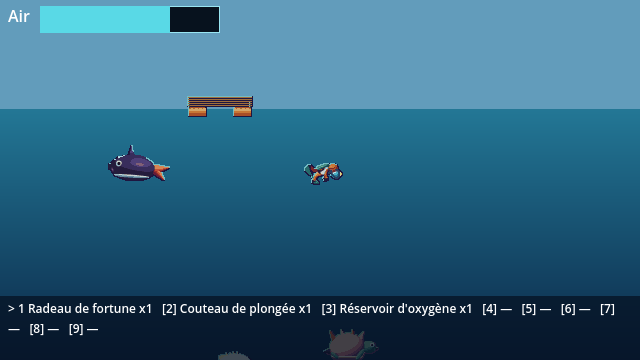
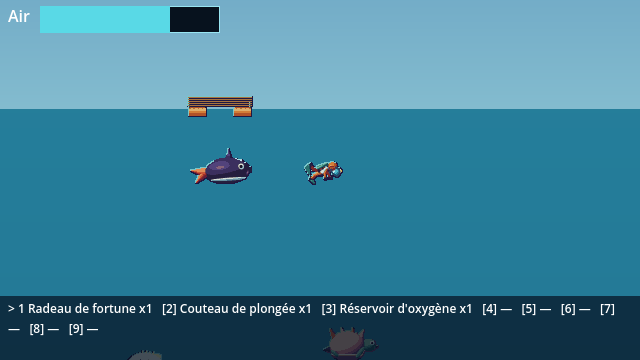
M3 : fond d'eau et ciel en dégradé sur 300 m, teinte sous-marine plus claire ; captures dans les seuils du contrôle (dominante <= 16 %, ombre <= 22 %)

diff --git a/tools/mesure/captures.py b/tools/mesure/captures.py
@@ -1,0 +1,38 @@
+#!/usr/bin/env python3
+"""captures.py - mesure, en lecture seule, les deux critères de capture du contrôle M3 (tools/gate.py).
+
+Pour chaque PNG donné : couleur dominante (une couleur exacte, en % des pixels) et part des pixels sous
+luminance 0,05. Les seuils du contrôle sont 40 % et 35 %. Le contrôle reste la référence ; ce script ne fait
+que montrer les chiffres avant et après un changement visuel.
+Usage : python3 tools/mesure/captures.py <png> [<png> ...]
+"""
+import sys
+from collections import Counter
+
+from PIL import Image
+
+
+def lin(c):
+    c /= 255.0
+    return c / 12.92 if c <= 0.04045 else ((c + 0.055) / 1.055) ** 2.4
+
+
+def luminance(rgb):
+    r, g, b = rgb
+    return 0.2126 * lin(r) + 0.7152 * lin(g) + 0.0722 * lin(b)
+
+
+def mesurer(chemin):
+    img = Image.open(chemin).convert("RGB")
+    pixels = list(img.getdata())
+    n = len(pixels)
+    compte = Counter(pixels)
+    dom = max(compte.values()) / n
+    sombre = sum(1 for p in pixels if luminance(p) < 0.05) / n
+    return dom, sombre
+
+
+if __name__ == "__main__":
+    for chemin in sys.argv[1:]:
+        dom, sombre = mesurer(chemin)
+        print(f"{chemin} : dominante {dom * 100:.0f} % (<40) ; sous luminance 0,05 : {sombre * 100:.0f} % (<35)")
